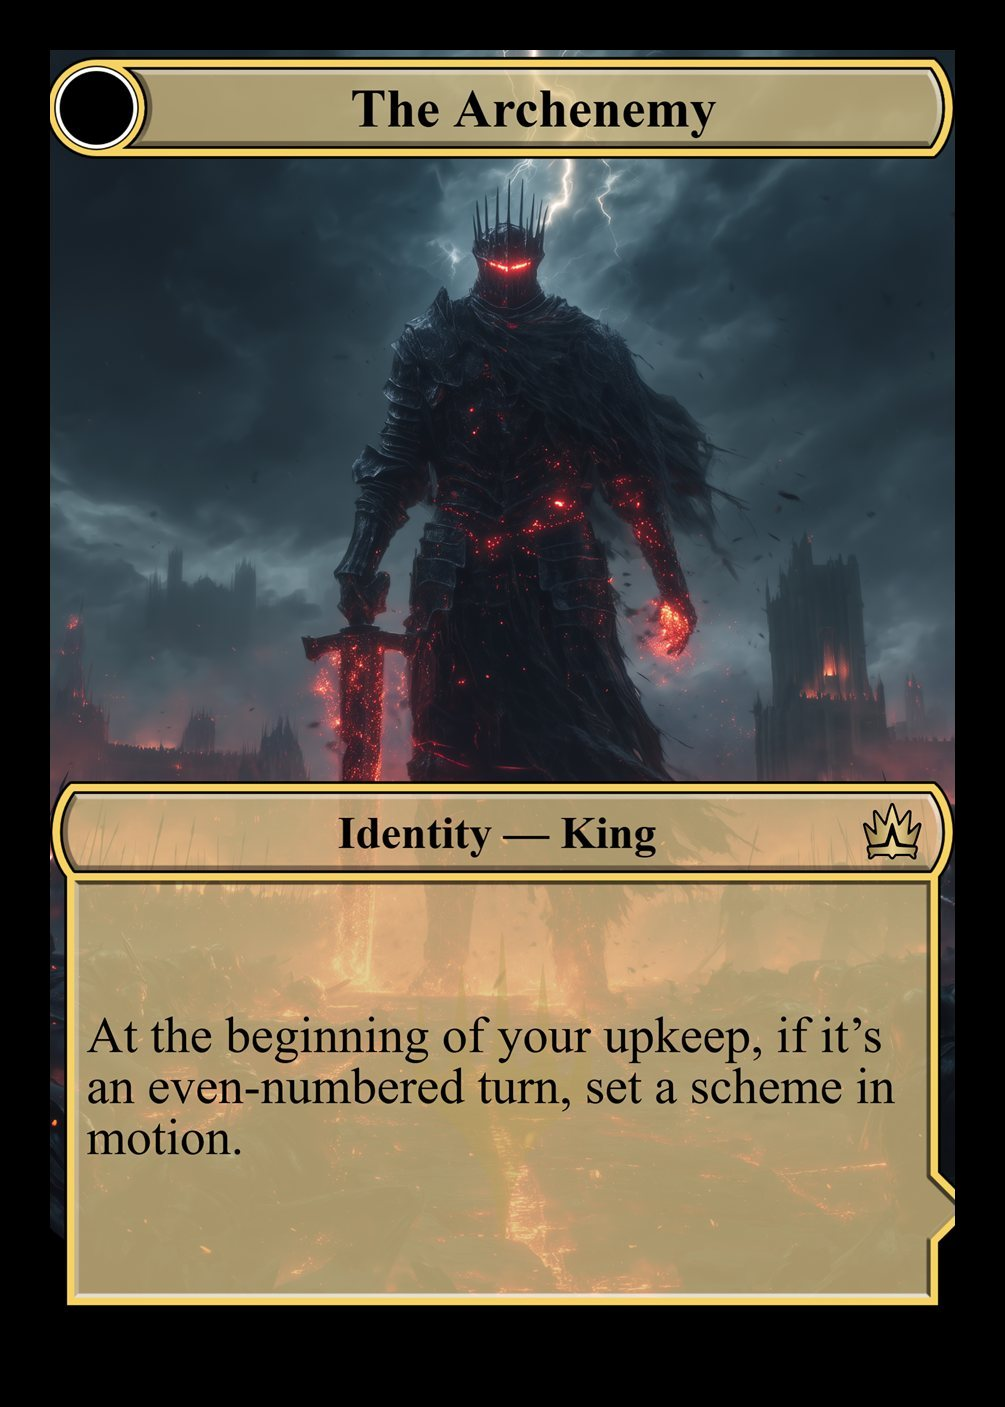
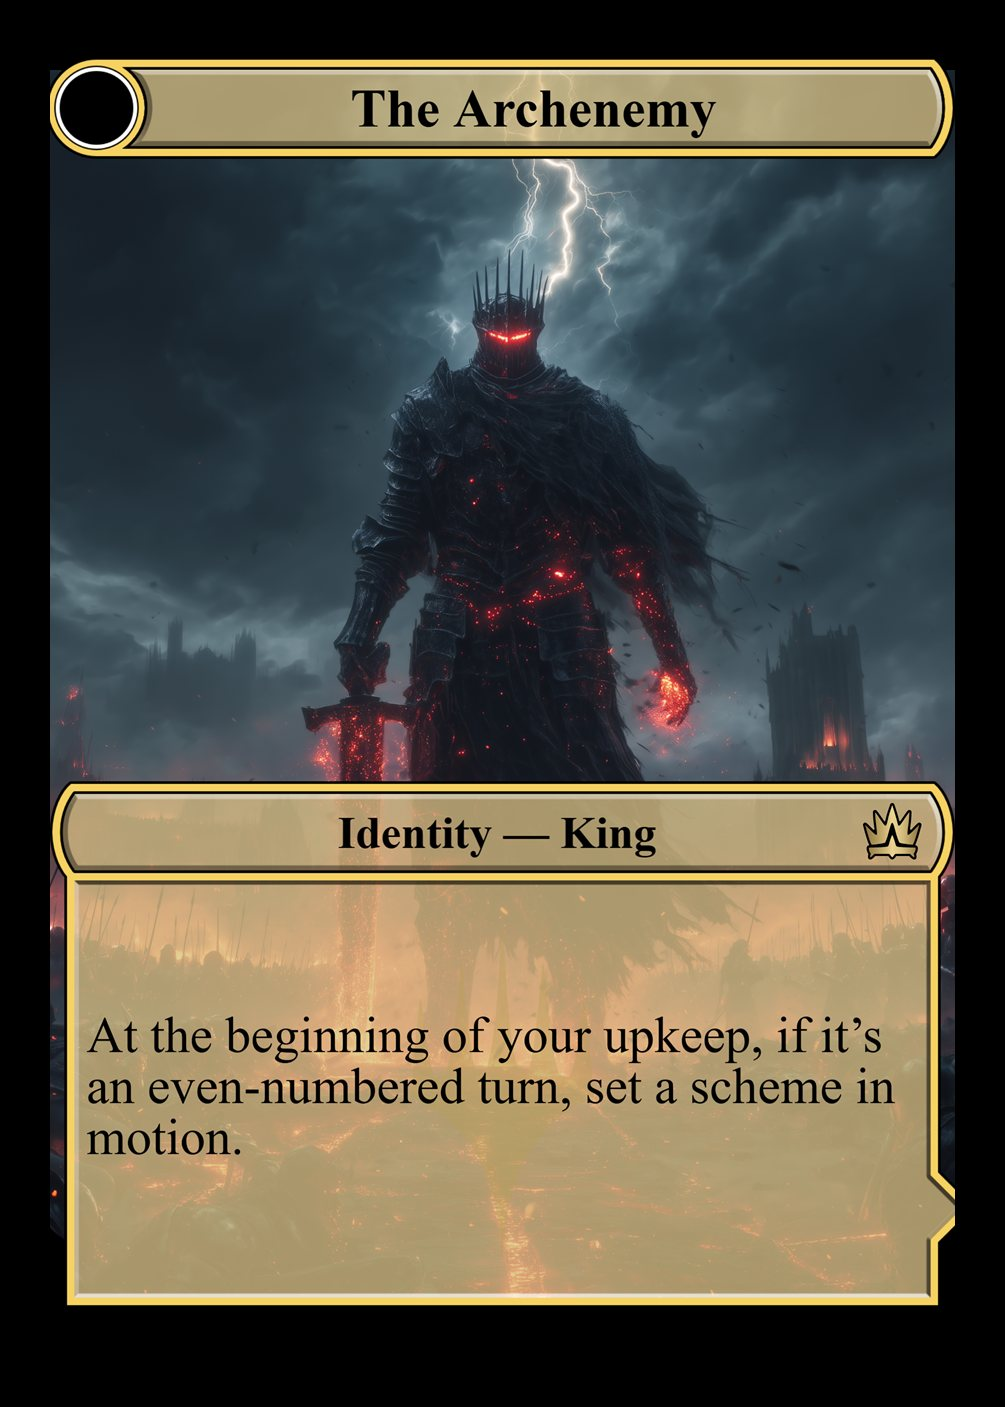
Added King Y Positons and update Readme

diff --git a/README.md b/README.md
@@ -11,11 +11,12 @@
 - [ ] Simplify layout usage — should work with any downloaded layout
 - [x] ~~Add `Y_POS` parameter to cards for artwork vertical position~~ _(done)_
 - [ ] Verify syntax across all cards
+- [ ] Final Check of different card compressions in makeplayingcards
 - [ ] Set artwork Y-positions manually
   - [x] ~~Assassins~~ _(done)_
   - [ ] Bandits
   - [ ] Guardians
-  - [ ] Kings
+  - [x] ~~Kings~~ _(done)_
   - [ ] Renegades
 - [ ] Create generic card api
 - [ ] _(Future)_ Automate artwork Y-position detection
